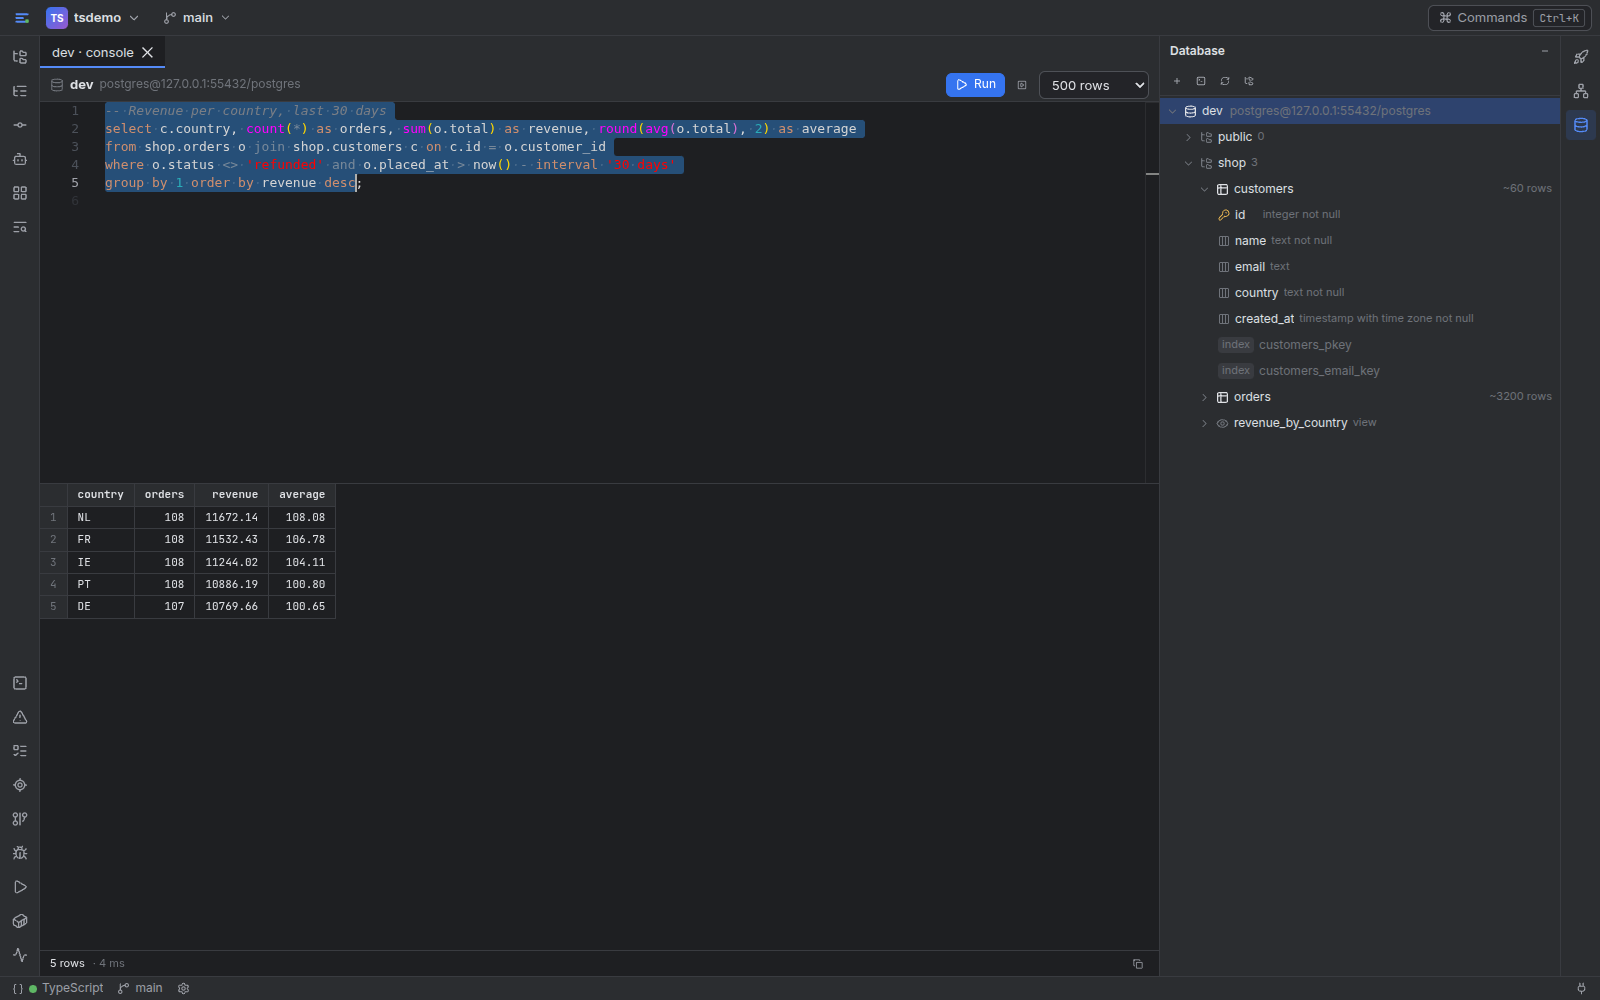
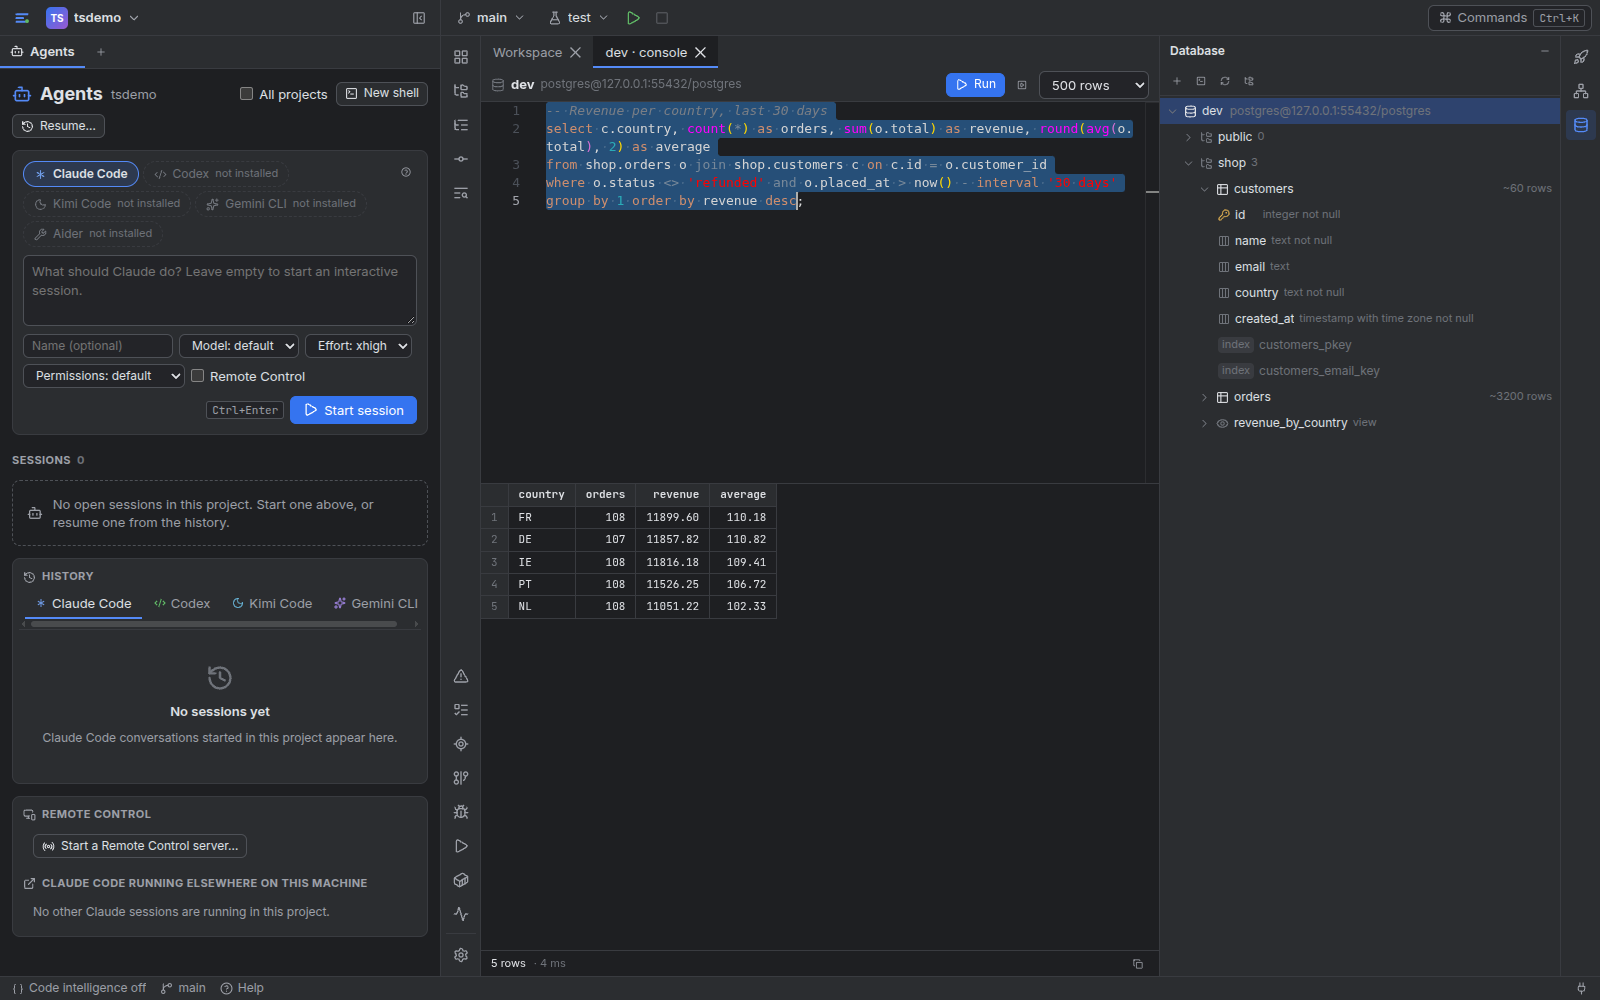
Docs and tour for the agents column (0.5.1) (#7)

diff --git a/docs/ARCHITECTURE.md b/docs/ARCHITECTURE.md
@@ -355,7 +355,7 @@ The IDs below are the defaults. The left stripe, right of the agents column, als
 - **left:** `files` (the project, or the scratch files: see "Scratch files" under Configuration), `commit` (Changes, with Changes / Stash / Shelf tabs), `search`, and first of all `workspace` (order 5: the default one).
 - **right:** `gitlab` (when `project.gitlab`), `github` (order 12, when `project.github`), `confluence`, `jira` (only when the project or site has Jira; Issues and Boards tabs), `apps`, `database` (db, 60: see "Database").
 - **bottom:** `problems` (lsp: diagnostics, 15, Alt+6), `todo` (files: TODO / FIXME / XXX / HACK comments of the project or the current file, 16; `GET /api/projects/{pid}/files/todos` reuses Find in Files' walker and keeps matches inside a comment of the file's language; rescans 1.5 s after `fs.changed`), `usages` (lsp: Find Usages results, 17), `gitlog` (20, Alt+9), `debug` (25, Alt+5), `run` (run-configuration output, 30), `services` (devcontainer: this computer's Docker containers, compose projects and images, 35, Alt+8; see "Services (Docker)" under Dev containers), `activity` (platform: MCP calls and notifications, 40). Stripe icons are distinct: Find (left) is the only magnifier; Find Usages has a crosshair.
-- **CLion keys.** Tool windows: Alt+1 Files, Alt+2 Bookmarks, Alt+3 Find, Alt+4 Run, Alt+5 Debug, Alt+6 Problems, Alt+7 Structure (lsp: the focused file's symbols in source order, the caret's one marked), Alt+8 Services, Alt+9 Git Log, Alt+0 Commit; Alt+F12 hides and shows the agents column (where the terminals are). Editor keymap (`lib/editorKeymap.ts`, Settings › General, per browser): CLion by default — Ctrl+D duplicate, Ctrl+Y delete line, Ctrl+Shift+Z redo, Alt+J / Alt+Shift+J / Ctrl+Alt+Shift+J occurrences, Ctrl+Shift+J join, Ctrl+Shift+Up/Down and Alt+Shift+Up/Down move lines, Shift+Enter / Ctrl+Alt+Enter new line after / before, Ctrl+Q quick docs, Ctrl+Shift+/ block comment, Ctrl+Alt+O optimize imports, Ctrl+Alt+I auto-indent, Ctrl+Shift+M matching brace, Ctrl+Shift+U toggle case, Ctrl+NumPad+/- folding — as keybinding rules and one global editor action, swapped live; "VS Code" keeps Monaco's own keys. Ctrl+W (Extend Selection) cannot be taken from a browser.
+- **CLion keys.** Tool windows: Alt+1 Files, Alt+2 Bookmarks, Alt+3 Find, Alt+4 Run, Alt+5 Debug, Alt+6 Problems, Alt+7 Structure (lsp: the focused file's symbols in source order, the caret's one marked), Alt+8 Services, Alt+9 Git Log, Alt+0 Commit; Alt+F12 collapses and expands the workspace window beside the agents column (see "Desktop layout"). Editor keymap (`lib/editorKeymap.ts`, Settings › General, per browser): CLion by default — Ctrl+D duplicate, Ctrl+Y delete line, Ctrl+Shift+Z redo, Alt+J / Alt+Shift+J / Ctrl+Alt+Shift+J occurrences, Ctrl+Shift+J join, Ctrl+Shift+Up/Down and Alt+Shift+Up/Down move lines, Shift+Enter / Ctrl+Alt+Enter new line after / before, Ctrl+Q quick docs, Ctrl+Shift+/ block comment, Ctrl+Alt+O optimize imports, Ctrl+Alt+I auto-indent, Ctrl+Shift+M matching brace, Ctrl+Shift+U toggle case, Ctrl+NumPad+/- folding — as keybinding rules and one global editor action, swapped live; "VS Code" keeps Monaco's own keys. Ctrl+W (Extend Selection) cannot be taken from a browser.
 - **Navigation (files):** `navHistory.ts` keeps where the caret has been in the active editor (one entry per place: moves within 10 lines update it, a file switch or a longer jump adds one; Back / Forward update the entry they go to instead of adding). Navigate Back / Forward: Ctrl+Alt+Left / Right (also as editor actions), Alt+Left / Right outside terminals, and the mouse's back / forward buttons (which would otherwise leave Workbench). Recent Files (Ctrl+E; again: changed files only, from the shared git status query) preselects the previous file; Recent Locations (Ctrl+Shift+E) lists the places with their code. Kept in memory per browser tab.
 - **HTTP Client (apps):** JetBrains `.http` / `.rest` files. `server/src/apps/http_client.rs` parses them (`###` blocks, `# @name`, `@var = value`, `METHOD URL [HTTP/x]`, `?`/`&` continuation lines, headers, a body or `< ./file`; response-handler scripts and `>>` redirects are skipped, never run), fills `{{variables}}` from the file, `http-client.env.json` and `http-client.private.env.json` (nearest ones up to the project root; `$shared` plus the chosen environment; the private file is a default-sensitive file) and dynamic ones (`$uuid`, `$timestamp`, `$isoTimestamp`, `$randomInt`), and sends one request on the user's click (`POST /api/projects/{pid}/http/run {path, line, env?}`; devices only, agent tokens refused; http/https only; 60 s, 10 redirects, 5 MB of body). Values from the private file are masked (`••••`) in the request echoed back. `GET …/http/envs?path=` lists environments and requests. Editor (`features/apps/http`): a Monarch grammar (`http` language), CodeLenses "▶ Send Request" and "Environment: …" above every request, Ctrl+Enter at the caret; unsaved files are saved first. Responses go to the `httpResponse` panel (`{projectId}`, id `http:<projectId>`): status, time, size, Body (JSON pretty-printed), Headers, Request, Send Again, and the last 30 runs.
 - **CI test reports and artifacts (gitlab, github):** a GitLab pipeline with a JUnit report gets a Tests tab in its `pipeline` panel (the header's "N failed" opens it): `GET /api/projects/{pid}/gitlab/pipelines/{id}/tests` keeps the report's counts and only its failed and errored cases (at most 200; output = failure message then stack trace, 12 KB each; `recentFailures` on the base branch, shown as "3× on main"), each with Ask agent to fix (the test, its file and output; `testFixPrompt`), Open the file and Copy. Agents read the same through `gitlab_test_failures`. GitLab job artifacts download from the job panel (`jobs/{id}/artifacts`, streamed); GitHub run artifacts are listed in the `gh.run` panel (see the GitHub REST list).

diff --git a/web/src/features/help/pages/02-projects.md b/web/src/features/help/pages/02-projects.md
@@ -1,6 +1,6 @@
 # Projects and files
 
-A **project** is a git repository. Switch between them with the project switcher in the top bar. Every tool window follows the current project.
+A **project** is a git repository. Switch between them with the project switcher at the top of the agents window. Every tool window follows the current project.
 
 ## Adding and removing projects
 
@@ -10,7 +10,7 @@ Workbench lists each repository directly under the folders in `[projects] roots`
 
 From a project's files Workbench works out:
 
-- **Run configurations:** Cargo, package.json, Python, Go, CMake, Gradle and Maven, Ruby, PHP, Elixir, Make, just, Taskfile, Procfile, compose files, Unity and .NET. They appear in the Run tool window.
+- **Run configurations:** Cargo, package.json, Python, Go, CMake, Gradle and Maven, Ruby, PHP, Elixir, Make, just, Taskfile, Procfile, compose files, Unity and .NET. They appear in the workspace window's top bar and in the Run tool window (Alt+4); a run's output is a tab of the agents column.
 - **Environments:** from a Caddyfile and deploy scripts. They appear in the Apps tool window.
 
 ## Adjusting a project

diff --git a/web/src/features/help/pages/03-agents.md b/web/src/features/help/pages/03-agents.md
@@ -4,7 +4,7 @@ An **agent session** is a CLI such as Claude Code running in a terminal inside W
 
 ## Starting a session
 
-Open the **Agents** tool window, or press **Ctrl+K** and run *New agent session*. Choose the provider and the project.
+Use the **Agents** tab, the first tab of the agents column on the left, or press **Ctrl+K** and run *New agent session*. Choose the provider and the project. The session becomes a tab of that column, and **+** after the last tab starts another session or a shell.
 
 - **Claude Code** works without setup.
 - **Codex**, **Kimi Code**, **Gemini CLI** and **Aider** are presets that appear once the program is installed.
@@ -24,7 +24,7 @@ Claude's own prompt in the terminal keeps working. **Whichever answer comes firs
 
 ## Remote Control
 
-Claude Code's Remote Control can be switched on per session, or run as a server per project, from the Agents panel.
+Claude Code's Remote Control can be switched on per session, or run as a server per project, from the Agents tab of the column.
 
 ## Dev containers
 

diff --git a/README.md b/README.md
@@ -122,7 +122,7 @@ as a service, and `config.toml`. The pages are Markdown in `web/src/features/hel
 | **Run** / **Debug** | Alt+4 / Alt+5 | Run configurations and their output; the debugger |
 | **Problems** / **Structure** | Alt+6 / Alt+7 | Diagnostics from language servers; the file's symbols |
 | **Services** | Alt+8 | Docker containers, compose projects and images |
-| **Terminals** | Alt+F12 | Shells, on the host or in the dev container, as tabs of the Agents column |
+| **Terminals** | | Shells, on the host or in the dev container, as tabs of the Agents column; Alt+F12 collapses the workspace window beside it |
 | **Workspace** | | Deliverable cards: reports, galleries, PDFs, 3D comparisons |
 | **GitLab** / **GitHub** | | Merge and pull requests, pipelines and Actions, issues |
 | **Confluence** / **Jira** | | Pages, comments and boards |

diff --git a/server/src/workspace/examples/welcome/get-started.md b/server/src/workspace/examples/welcome/get-started.md
@@ -31,7 +31,7 @@ in the card's header. Archiving keeps its files.
 | Left stripe | Workspace, Files, Commit, Find; Settings at its foot |
 | Right stripe | GitLab, GitHub, Confluence, Jira, Apps, Database |
 | Bottom stripe | Problems, TODO, Git Log, Debug, Run, Services |
-| Top bar | The project and branch switchers, run configurations |
+| Top bars | The project switcher over the agents column; the branch switcher and run configurations over the workspace |
 | Status bar | The language server, the branch, CI status, the dev container |
 
 Double Shift searches files, symbols, text and actions. Ctrl+K lists every command.

diff --git a/CHANGELOG.md b/CHANGELOG.md
@@ -1,5 +1,12 @@
 # Changelog
 
+## 0.5.1 - 2026-10-01
+
+- **Docs:** the tour card's screenshots (CI tests, a Workspace card, Services, Database), the
+  help pages, the welcome card and the README describe the agents column: sessions start
+  from the first tab of the column, the project switcher sits over it, Alt+F12 collapses the
+  workspace window.
+
 ## 0.5.0 - 2026-09-30
 
 - **Layout:** agents and terminals are a column on the left of the window, no longer tabs
